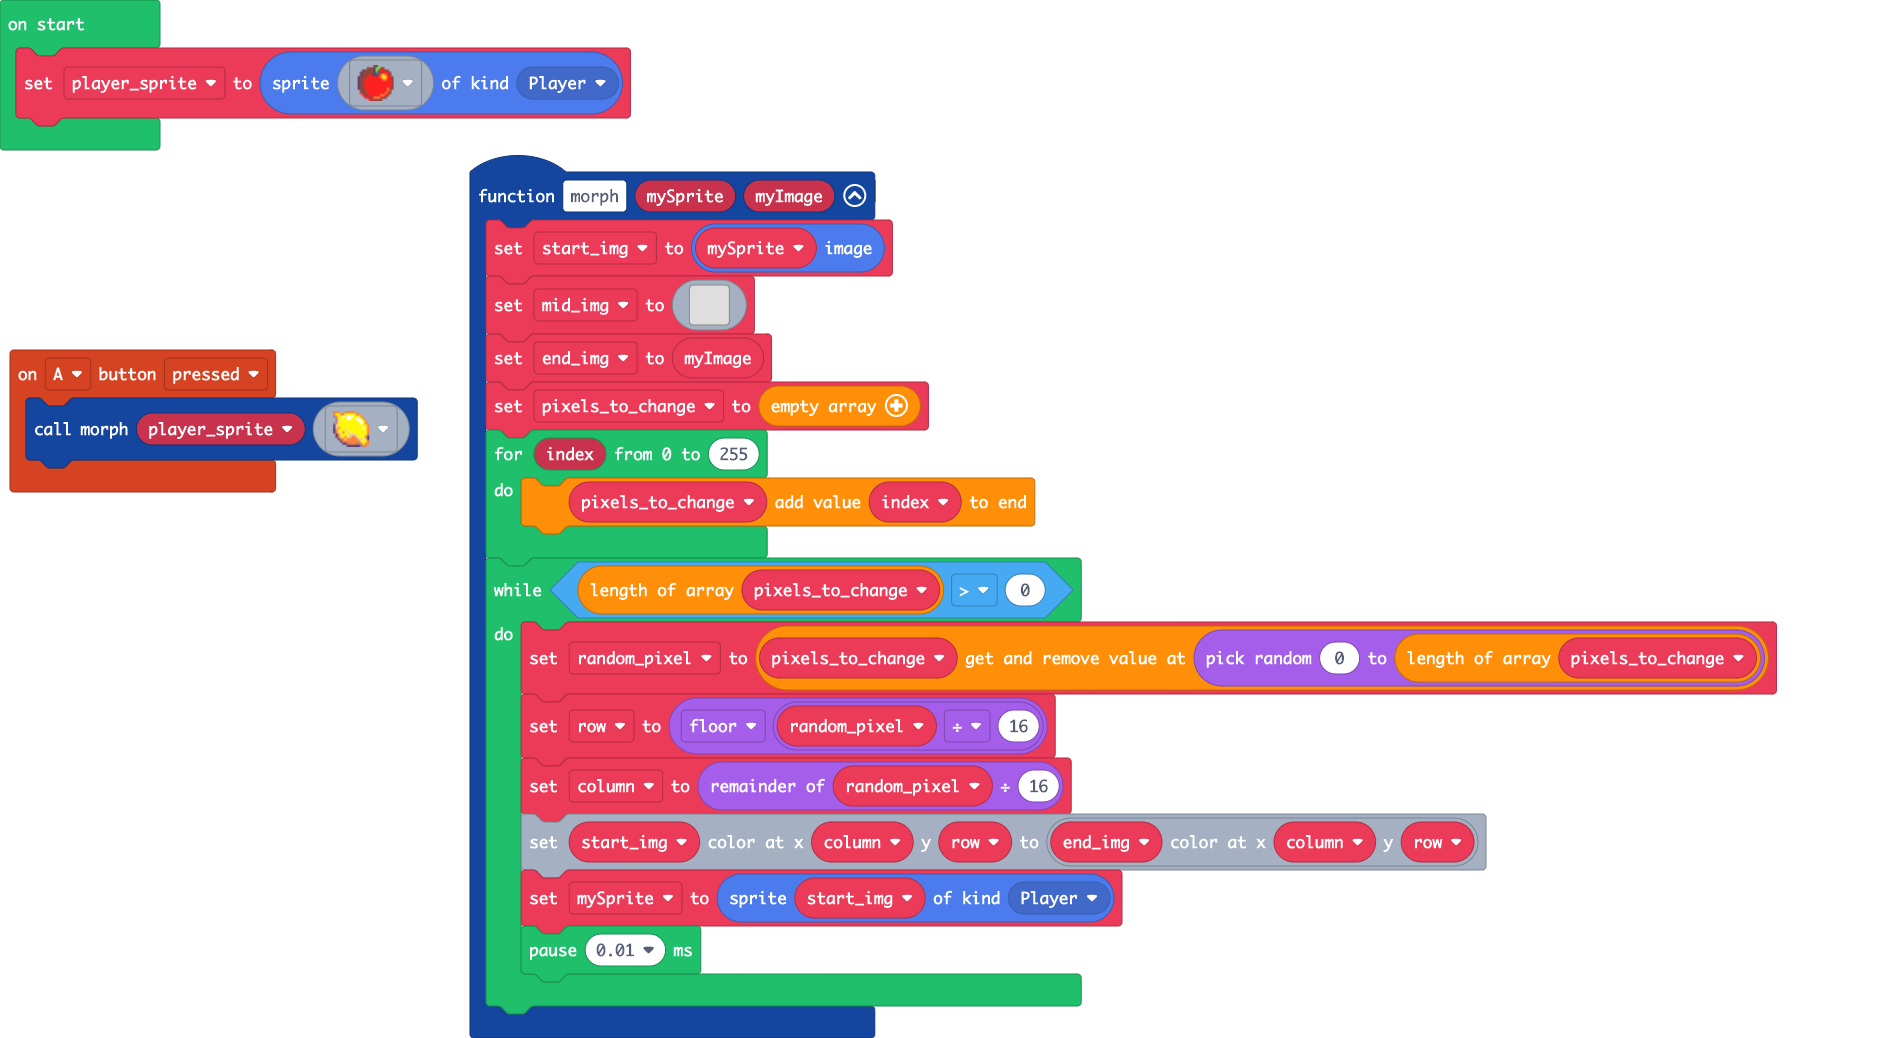
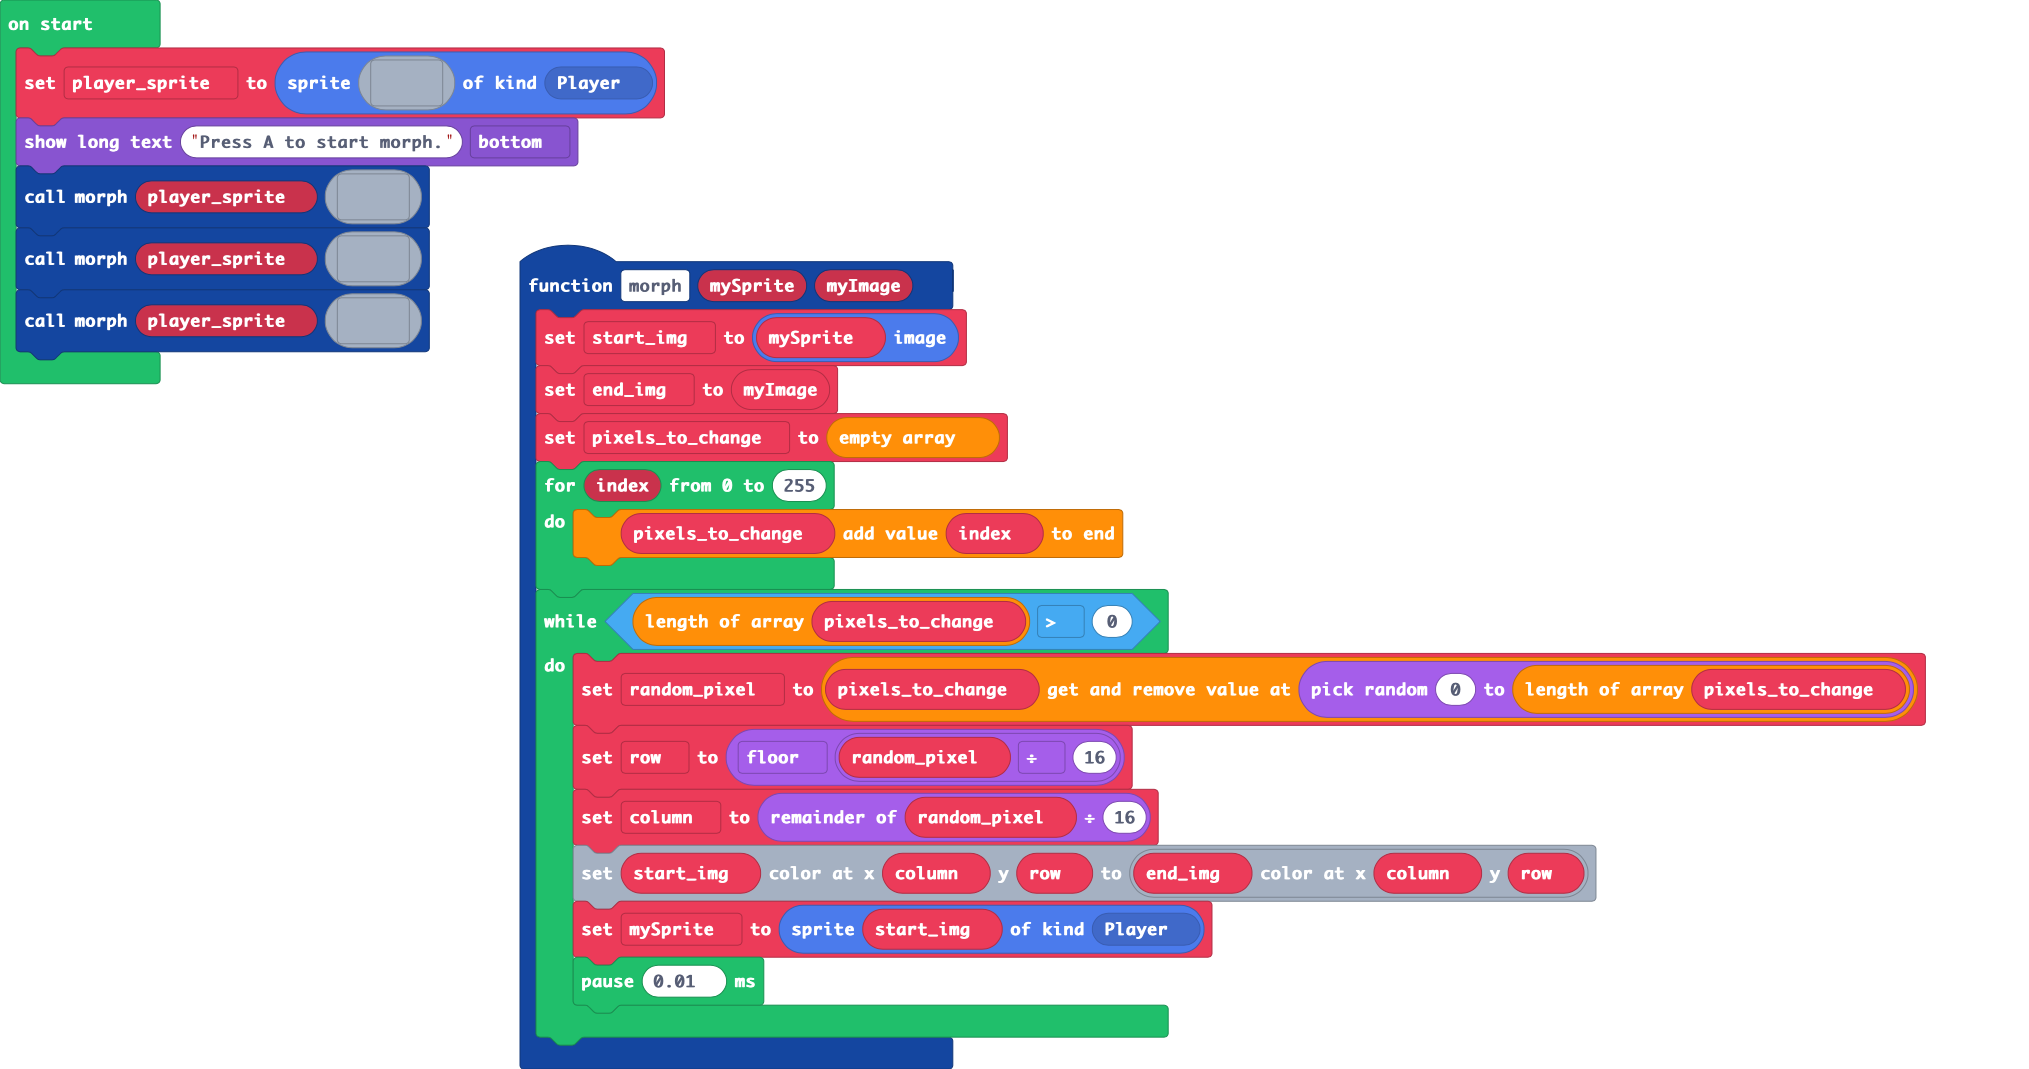
Added extra morphs. Increasingly slow to complete.

Changed region(s): [[0.0, 0.0, 0.9564, 1.0], [0.4628, 0.9557, 0.4936, 1.0]]

diff --git a/main.ts b/main.ts
@@ -1,26 +1,5 @@
-controller.A.onEvent(ControllerButtonEvent.Pressed, function () {
-    morph(player_sprite, sprites.food.smallLemon)
-})
 function morph (mySprite: Sprite, myImage: Image) {
     start_img = mySprite.image
-    mid_img = img`
-        . . . . . . . . . . . . . . . . 
-        . . . . . . . . . . . . . . . . 
-        . . . . . . . . . . . . . . . . 
-        . . . . . . . . . . . . . . . . 
-        . . . . . . . . . . . . . . . . 
-        . . . . . . . . . . . . . . . . 
-        . . . . . . . . . . . . . . . . 
-        . . . . . . . . . . . . . . . . 
-        . . . . . . . . . . . . . . . . 
-        . . . . . . . . . . . . . . . . 
-        . . . . . . . . . . . . . . . . 
-        . . . . . . . . . . . . . . . . 
-        . . . . . . . . . . . . . . . . 
-        . . . . . . . . . . . . . . . . 
-        . . . . . . . . . . . . . . . . 
-        . . . . . . . . . . . . . . . . 
-        `
     end_img = myImage
     pixels_to_change = []
     for (let index = 0; index <= 255; index++) {
@@ -40,8 +19,10 @@ let row = 0
 let random_pixel = 0
 let pixels_to_change: number[] = []
 let end_img: Image = null
-let mid_img: Image = null
 let mySprite: Sprite = null
 let start_img: Image = null
-let player_sprite: Sprite = null
-player_sprite = sprites.create(sprites.food.smallApple, SpriteKind.Player)
+let player_sprite = sprites.create(sprites.food.smallApple, SpriteKind.Player)
+game.showLongText("Press A to start morph.", DialogLayout.Bottom)
+morph(player_sprite, sprites.food.smallLemon)
+morph(player_sprite, sprites.food.smallStrawberry)
+morph(player_sprite, sprites.food.smallPizza)
